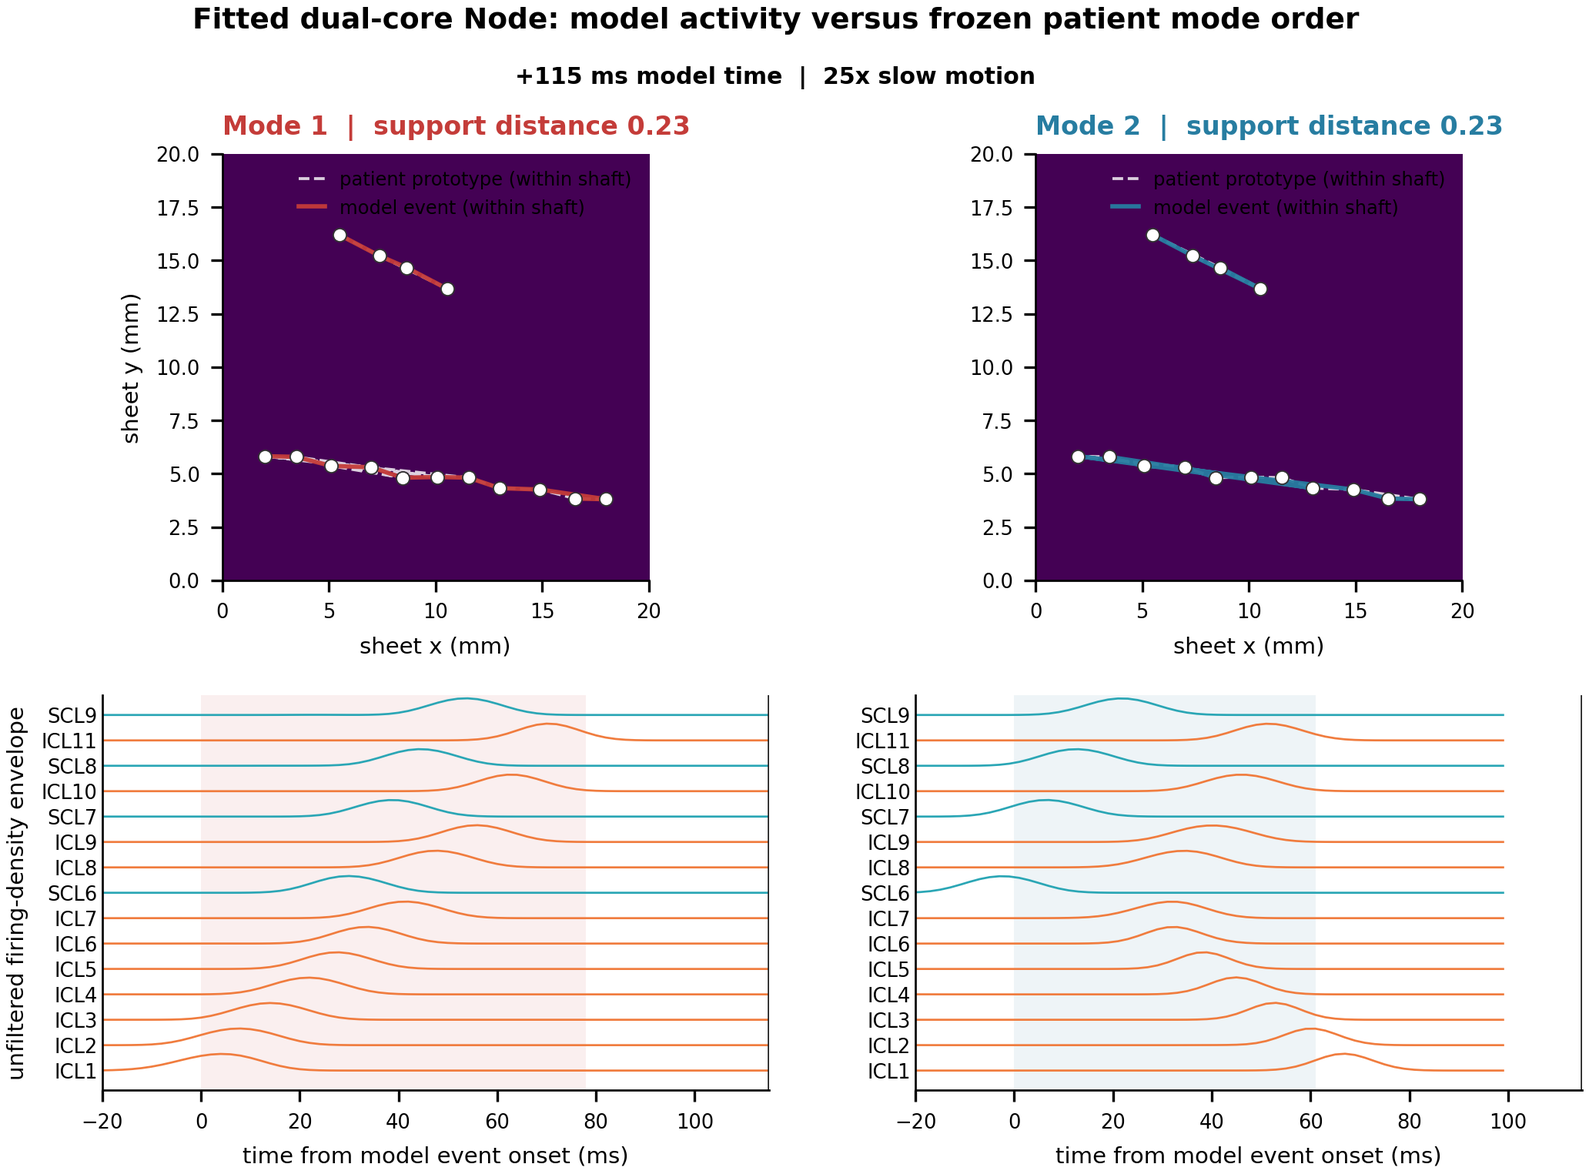
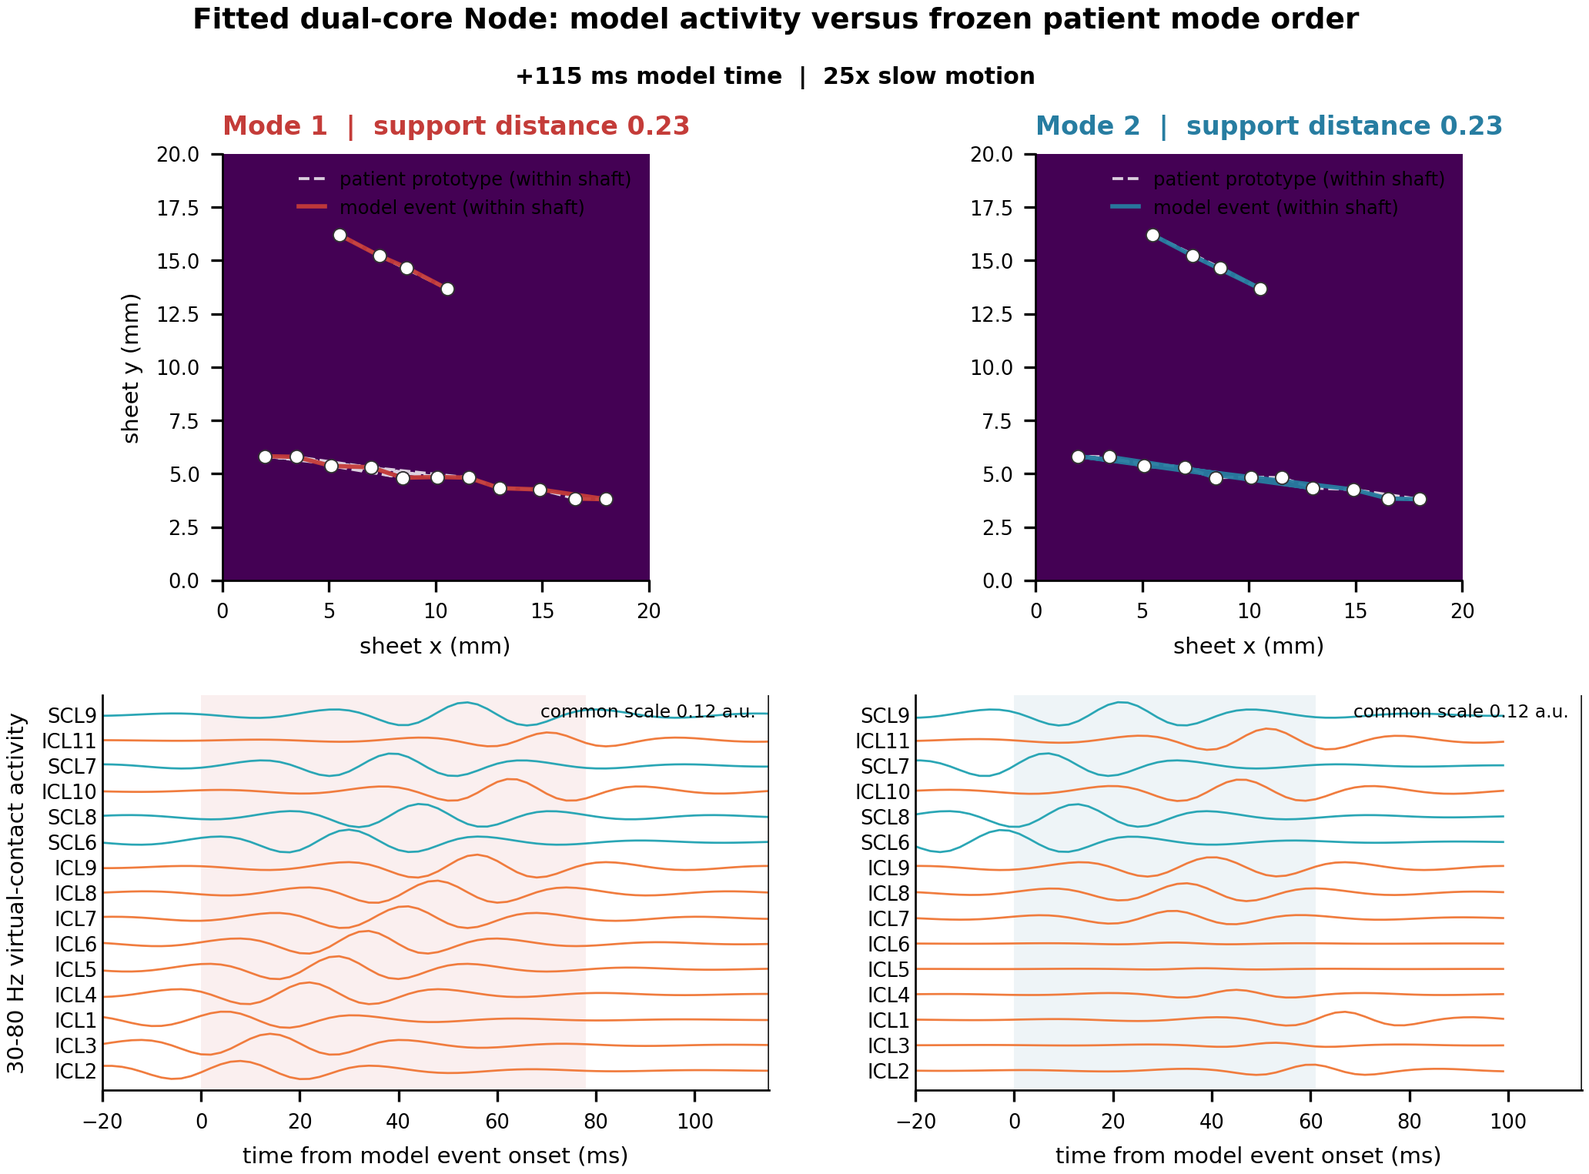
topic4: align dual-core readout with fig4

Changed region(s): [[0.0, 0.5856, 0.4961, 0.9246], [0.5581, 0.5856, 0.9612, 0.9246], [0.6512, 0.863, 0.6822, 0.8938]]

diff --git a/scripts/plot_topic4_dual_core_ood_gif.py b/scripts/plot_topic4_dual_core_ood_gif.py
@@ -13,6 +13,7 @@ matplotlib.use("Agg")
 import matplotlib.pyplot as plt
 from matplotlib.animation import FuncAnimation, PillowWriter
 import numpy as np
+from scipy.signal import butter, sosfiltfilt
 
 
 ROOT = Path(__file__).resolve().parents[1]
@@ -25,6 +26,7 @@ from src.topic4_d6_natural_kmeans import normalize_event_ranks  # noqa: E402
 DEFAULT_CONFIG = ROOT / "config/topic4_dual_core_ood_node_pathways.json"
 MODE_COLORS = ("#c43c39", "#277da1")
 SHAFT_COLORS = {"ICL": "#f07c3e", "SCL": "#2aa6b5"}
+TRACE_BAND_HZ = (30.0, 80.0)
 
 
 def select_representative_pair(
@@ -69,7 +71,9 @@ def select_representative_pair(
     }
 
 
-def _patient_profiles(target_path: Path) -> tuple[np.ndarray, np.ndarray, np.ndarray]:
+def _patient_profiles(
+    target_path: Path,
+) -> tuple[np.ndarray, np.ndarray, np.ndarray, np.ndarray]:
     with np.load(target_path, allow_pickle=False) as loaded:
         names = np.asarray(loaded["contact_names"]).astype(str)
         ranks = np.asarray(loaded["patient_train_ranks"], float)
@@ -78,7 +82,32 @@ def _patient_profiles(target_path: Path) -> tuple[np.ndarray, np.ndarray, np.nda
     profiles = np.asarray([
         np.nanmean(normalized[labels == mode], axis=0) for mode in (0, 1)
     ])
-    return names, profiles, np.bincount(labels, minlength=2)
+    valid = np.isfinite(ranks)
+    counts = valid.sum(axis=0)
+    mean_rank = np.full(ranks.shape[1], np.nan, dtype=float)
+    for index in range(ranks.shape[1]):
+        if counts[index]:
+            mean_rank[index] = float(np.mean(ranks[valid[:, index], index]))
+    fill = (
+        float(np.nanmax(mean_rank)) + 1.0 if np.any(np.isfinite(mean_rank)) else 1.0
+    )
+    keys = np.where(np.isfinite(mean_rank), mean_rank, fill)
+    contact_order = np.lexsort((np.arange(len(names)), -counts, keys))
+    return names, profiles, np.bincount(labels, minlength=2), contact_order
+
+
+def _bandpass_contact_activity(
+    envelope: np.ndarray, dt_ms: float, band_hz=TRACE_BAND_HZ,
+) -> np.ndarray:
+    """Match the accepted Fig.4 virtual-contact display filter exactly."""
+    values = np.asarray(envelope, dtype=float)
+    fs_hz = 1000.0 / float(dt_ms)
+    if values.ndim != 2 or values.shape[1] < 20:
+        raise ValueError("contact envelope must be contact x time with >=20 samples")
+    if not (0.0 < band_hz[0] < band_hz[1] < 0.5 * fs_hz):
+        raise ValueError("readout band must lie below the envelope Nyquist frequency")
+    sos = butter(4, band_hz, btype="bandpass", fs=fs_hz, output="sos")
+    return sosfiltfilt(sos, values, axis=1)
 
 
 def _event_grid(loaded, event_index: int) -> tuple[np.ndarray, np.ndarray]:
@@ -164,7 +193,9 @@ def render(config_path: Path, output_dir: Path, *, fps: float = 8.0) -> dict:
     npz_path = ROOT / selected["worker_npz"]
     worker = json.loads(json_path.read_text())
     target_path = ROOT / config["inputs"]["shaft_aware_target_npz"]["path"]
-    patient_names, patient_profiles, patient_counts = _patient_profiles(target_path)
+    patient_names, patient_profiles, patient_counts, trace_order = _patient_profiles(
+        target_path
+    )
     with np.load(npz_path, allow_pickle=False) as loaded:
         contact_names = np.asarray(loaded["contact_names"]).astype(str)
         if not np.array_equal(contact_names, patient_names):
@@ -174,6 +205,7 @@ def render(config_path: Path, output_dir: Path, *, fps: float = 8.0) -> dict:
         onsets = np.asarray(loaded["onsets"], float)
         envelope = np.asarray(loaded["contact_envelope"], float)
         envelope_dt = float(loaded["contact_envelope_dt_ms"])
+        filtered_envelope = _bandpass_contact_activity(envelope, envelope_dt)
         event_payload = []
         for mode in (0, 1):
             event = selected["events"][str(mode)]
@@ -183,7 +215,7 @@ def render(config_path: Path, output_dir: Path, *, fps: float = 8.0) -> dict:
             onset_ms = float(timing["t_on_ms"])
             stop_ms = float(timing["t_off_ms"])
             trace_time, trace = _window_envelope(
-                envelope, envelope_dt, onset_ms - 20.0, stop_ms + 40.0,
+                filtered_envelope, envelope_dt, onset_ms - 20.0, stop_ms + 40.0,
             )
             event_payload.append({
                 "mode": mode, "event_index": event_index,
@@ -203,6 +235,9 @@ def render(config_path: Path, output_dir: Path, *, fps: float = 8.0) -> dict:
     ])
     vmax = float(np.quantile(positive, 0.995)) if len(positive) else 1.0
     vmax = max(vmax, 1.0)
+    trace_scale = max(float(np.quantile(np.abs(np.concatenate([
+        row["trace"][:, trace_order].ravel() for row in event_payload
+    ])), 0.99)), 1e-9)
     _style()
     fig = plt.figure(figsize=(7.2, 5.1))
     layout = fig.add_gridspec(2, 2, height_ratios=(1.08, 1.0), hspace=0.28, wspace=0.22)
@@ -247,14 +282,12 @@ def render(config_path: Path, output_dir: Path, *, fps: float = 8.0) -> dict:
             loc="upper right", frameon=False, fontsize=5.8, handlelength=1.4,
         )
         local = np.asarray(row["trace"], float)
-        scale = np.nanpercentile(np.abs(local), 99, axis=0)
-        scale[~np.isfinite(scale) | (scale <= 1e-12)] = 1.0
-        normalized = local / scale[None, :]
+        normalized = local * 0.72 / trace_scale
         offsets = np.arange(len(contact_names))[::-1] * 1.55
-        for index, name in enumerate(contact_names):
+        for row_index, contact in enumerate(trace_order):
             trace_axis.plot(
-                row["trace_time_ms"], normalized[:, index] + offsets[index],
-                color=SHAFT_COLORS.get(shaft_ids[index], "#555555"), lw=0.65,
+                row["trace_time_ms"], normalized[:, contact] + offsets[row_index],
+                color=SHAFT_COLORS.get(shaft_ids[contact], "#555555"), lw=0.65,
             )
         trace_axis.axvspan(
             0.0, row["duration_ms"], color=MODE_COLORS[mode], alpha=0.08, lw=0,
@@ -262,12 +295,14 @@ def render(config_path: Path, output_dir: Path, *, fps: float = 8.0) -> dict:
         cursor = trace_axis.axvline(relative_time[0], color="#202020", lw=0.85)
         cursors.append(cursor)
         trace_axis.set_yticks(offsets)
-        trace_axis.set_yticklabels(contact_names)
+        trace_axis.set_yticklabels(contact_names[trace_order])
         trace_axis.set_xlim(relative_time[0], relative_time[-1])
         trace_axis.set_ylim(-1.2, offsets[0] + 1.2)
         trace_axis.set_xlabel("time from model event onset (ms)")
-        trace_axis.set_ylabel(
-            "unfiltered firing-density envelope" if mode == 0 else ""
+        trace_axis.set_ylabel("30-80 Hz virtual-contact activity" if mode == 0 else "")
+        trace_axis.text(
+            0.98, 0.98, f"common scale {trace_scale:.2g} a.u.",
+            transform=trace_axis.transAxes, ha="right", va="top", fontsize=5.6,
         )
         trace_axis.tick_params(axis="y", length=0, pad=1.5)
     time_label = fig.text(
@@ -328,10 +363,17 @@ def render(config_path: Path, output_dir: Path, *, fps: float = 8.0) -> dict:
         "gif_fps": float(fps),
         "playback_slowdown": playback_slowdown,
         "trace_readout": (
-            "unfiltered virtual-contact firing-density envelope; 2 ms sampling; "
-            "5 ms Gaussian smoothing; normalized per contact for display"
+            "30-80 Hz fourth-order Butterworth zero-phase bandpass of the virtual-"
+            "contact firing-density envelope; upstream 2 ms bins and 5 ms Gaussian "
+            "smoothing; one common q99 scale across both event windows and all contacts"
         ),
-        "carrier_frequency_not_encoded_by_playback": True,
+        "same_signal_processing_as_accepted_fig4": True,
+        "same_continuous_window_as_accepted_fig4": False,
+        "event_windows_are_onset_aligned": True,
+        "trace_band_hz": list(TRACE_BAND_HZ),
+        "trace_common_scale_au": trace_scale,
+        "trace_contact_order": contact_names[trace_order].tolist(),
+        "filtered_trace_does_not_establish_native_carrier": True,
         "patient_reference": "mean normalized rank profile from frozen patient training modes",
         "not_clinical_seeg": True,
         "aggregate": str(aggregate_path.relative_to(ROOT)),
@@ -354,8 +396,9 @@ def render(config_path: Path, output_dir: Path, *, fps: float = 8.0) -> dict:
         "严格双 core Node 候选在同一 confirmation 网络中的两类代表事件。上排是 "
         "5 ms 兴奋神经元活动场；实线和白色虚线分别在每根杆内连接模型事件与患者冻结原型的"
         "触点招募顺序，避免把跨杆跳转误画成空间传播边；"
-        "下排为未滤波 firing-density envelope。动画按 8 fps 播放 5 ms 模型帧，即 25 倍慢放；"
-        "播放速度不表示模型载波频率。该图只用于检查 Fig.2C 双向传播形态，不能替代 OOD 或频谱统计。\n\n"
+        "下排复用 Fig.4 的 30–80 Hz virtual-contact 处理链和共同幅度尺度，但这里是两个事件的"
+        "onset-aligned 窗口，不是包含两事件的一段连续轨迹。动画按 8 fps 播放 5 ms 模型帧，即 25 倍慢放；"
+        "带通后的振荡外观不能证明模型具有原生 60 Hz 载波。该图只用于检查 Fig.2C 双向传播形态，不能替代 OOD 或原始频谱统计。\n\n"
         "**关注点**：两类事件是否都跨杆招募、传播方向是否与患者原型一致，以及是否存在局部点亮但"
         "未形成完整传播的情况。\n"
     )

diff --git a/scripts/audit_topic4_dual_core_temporal_carrier.py b/scripts/audit_topic4_dual_core_temporal_carrier.py
@@ -1,5 +1,5 @@
 #!/usr/bin/env python3
-"""Audit absolute propagation timing and unfiltered carrier content without SNN reruns."""
+"""Audit timing and the stored smoothed observation spectrum without SNN reruns."""
 from __future__ import annotations
 
 import argparse
@@ -149,21 +149,32 @@ def main() -> None:
             for arm, candidate_id in ARMS.items()
         },
         "spectral_contract": {
-            "readout": "unfiltered virtual-contact firing-density envelope",
+            "readout": (
+                "virtual-contact firing-density envelope without an additional bandpass, "
+                "but after 2 ms binning and 5 ms Gaussian temporal smoothing"
+            ),
             "not_lfp_or_seeg": True,
+            "raw_spike_or_synaptic_current_carrier_evaluable": False,
             "sampling_ms": 2.0,
             "smoothing_ms": 5.0,
+            "spatial_gaussian_footprint_sigma_mm": 0.25,
             "window_ms": 256.0,
             "window_alignment": "64 ms before to 192 ms after detector onset",
             "frequency_resolution_hz": 3.90625,
+            "theoretical_gaussian_amplitude_retention": {
+                "23.4375_hz": 0.7625579441684482,
+                "60_hz": 0.16922454248244995,
+                "80_hz": 0.04249905628536254
+            },
             "interpretation": (
-                "diagnostic of the stored observation envelope; a plotted 30-80 Hz "
-                "bandpass cannot establish an intrinsic HFO carrier"
+                "diagnostic of the stored smoothed observation envelope only; the 5 ms "
+                "Gaussian strongly attenuates 60-80 Hz, so this artifact cannot establish "
+                "or exclude an intrinsic spike-rate or synaptic-current carrier"
             ),
         },
         "claim_boundary": (
-            "absolute recruitment timing and unfiltered model-envelope spectrum only; "
-            "no clinical waveform or HFO reproduction claim"
+            "absolute recruitment timing and smoothed model-envelope spectrum only; "
+            "raw model carrier, clinical waveform and HFO reproduction remain untested"
         ),
     }
     output.parent.mkdir(parents=True, exist_ok=True)

diff --git a/tests/test_plot_topic4_dual_core_ood_gif.py b/tests/test_plot_topic4_dual_core_ood_gif.py
@@ -3,6 +3,7 @@ import pytest
 import numpy as np
 
 from scripts.plot_topic4_dual_core_ood_gif import (
+    _bandpass_contact_activity,
     _upsert_readme_entry,
     ordered_shaft_segments,
     select_representative_pair,
@@ -64,3 +65,15 @@ def test_readme_entry_is_replaced_without_dropping_other_entries():
     existing = "### target\nold\n\n### retained\nkeep\n"
     updated = _upsert_readme_entry(existing, "### target", "### target\nnew\n")
     assert updated == "### target\nnew\n### retained\nkeep\n"
+
+
+def test_bandpass_matches_accepted_fig4_filter():
+    from scripts.paper_figures.plot_fig4_spatial_edge_flow_validation import (
+        _bandpass_contact_activity as accepted_filter,
+    )
+
+    rng = np.random.default_rng(3)
+    envelope = rng.normal(size=(15, 600))
+    observed = _bandpass_contact_activity(envelope, 2.0)
+    expected = accepted_filter(envelope, 2.0)
+    assert np.array_equal(observed, expected)

diff --git a/docs/superpowers/specs/2026-08-31-topic4-dual-core-pathway-carrier-refit-design.md b/docs/superpowers/specs/2026-08-31-topic4-dual-core-pathway-carrier-refit-design.md
@@ -4,7 +4,7 @@
 
 Rev16 found a simple two-core Node field that produced both frozen patient propagation modes in 12/12 new networks, but 46% of returned events remained outside patient support. The pathway experiment then transferred EE and E-to-I coefficient rows learned on an older continuous field. It did not optimize either row on the new dual-core field. The transferred EE row reduced OOD mainly by suppressing event yield, the transferred E-to-I row shifted occupancy toward the patient's larger mode without reducing OOD, and their combination was antagonistic rather than additive.
 
-The representative GIF also exposed a separate issue. Its apparent slow motion is a rendering effect: 5 ms simulation frames are shown at 8 fps. Absolute contact recruitment spans overlap the patient distribution. However, the unfiltered stored firing-density envelope is dominated by about 23 Hz rather than an intrinsic 50--70 Hz carrier, while the current OOD embedding normalizes each event to 0--1 and cannot see either absolute duration or carrier frequency.
+The representative GIF also exposed a separate issue. Its apparent slow motion is a rendering effect: 5 ms simulation frames are shown at 8 fps. Absolute contact recruitment spans overlap the patient distribution. The stored firing-density envelope is dominated by about 23 Hz, but it has already undergone 5 ms Gaussian smoothing, which retains only about 17% of a 60 Hz amplitude. Raw spike-rate and synaptic-current carrier content therefore remain unaudited. The current OOD embedding also normalizes each event to 0--1 and cannot see either absolute duration or carrier frequency.
 
 Rev17 therefore keeps the Node substrate fixed and separates three questions:
 
@@ -65,8 +65,8 @@ The best four candidates then run on three new 12 s selection seeds. One work po
 
 Carrier calibration starts only after the pathway work point is frozen.
 
-1. Verify the unfiltered readout on a synthetic 62.5 Hz signal and on an archived SNN trajectory previously claimed to show a fast carrier. Failure means the readout must be repaired before simulation.
-2. Record both 1 ms population E/I rates and the unfiltered 2 ms virtual-contact firing-density envelope. A 30--80 Hz filtered trace remains a visualization, not the primary carrier endpoint.
+1. Verify the raw-rate readout on a synthetic 62.5 Hz signal and on an archived SNN trajectory previously claimed to show a fast carrier. Failure means the readout must be repaired before simulation.
+2. Record 1 ms population E/I rates and a current-based readout before the existing 5 ms observation smoothing. Also retain the 2 ms/5 ms virtual-contact firing-density envelope for exact Fig.4 display parity. A 30--80 Hz filtered trace remains a visualization, not the primary carrier endpoint.
 3. If the frozen work point remains low-frequency, scan only:
 
 ```text
@@ -82,8 +82,8 @@ This is a model gamma-like carrier calibration, not a claim that the firing-dens
 ## Visual contract
 
 - GIF time labels state model milliseconds and playback slowdown.
-- The lower panel names the unfiltered firing-density envelope explicitly.
-- A filtered 30--80 Hz trace, if shown, is labeled as filtered.
+- The formal lower panel uses the accepted Fig.4 fourth-order 30--80 Hz zero-phase filter and common amplitude scale, and is labeled as filtered firing-density activity.
+- The GIF metadata states that its two onset-aligned event windows are not the same as Fig.4's single continuous two-event window.
 - Mode examples remain algorithmically selected, and all-event OOD/KMeans statistics remain adjacent to the GIF.
 
 ## Claim boundary

diff --git a/docs/archive/topic4/sef_hfo/dual_core_ood_node_pathway_factorization_2026-08-31.md b/docs/archive/topic4/sef_hfo/dual_core_ood_node_pathway_factorization_2026-08-31.md
@@ -2,7 +2,7 @@
 
 **日期**：2026-08-31
 
-**状态**：`DUAL_CORE_NODE_REPERTOIRE_PARTIAL_SUPPORT / FULL_DISTRIBUTION_NOT_RECOVERED / EE_OOD_FILTER_WITH_YIELD_COST / ETOI_MODE_OCCUPANCY_MODULATOR / TRANSFERRED_PATHWAYS_NONADDITIVE / NATIVE_CARRIER_NOT_RECOVERED`
+**状态**：`DUAL_CORE_NODE_REPERTOIRE_PARTIAL_SUPPORT / FULL_DISTRIBUTION_NOT_RECOVERED / EE_OOD_FILTER_WITH_YIELD_COST / ETOI_MODE_OCCUPANCY_MODULATOR / TRANSFERRED_PATHWAYS_NONADDITIVE / RAW_CARRIER_NOT_AUDITED`
 
 **范围**：development-only；不作 patient-blind、解剖 core、临床波形、发作或患者因果机制主张。
 
@@ -116,7 +116,7 @@ E->I 主要把模式占用推向 Mode 2，并略微增加事件产率；
 
 零仿真重读现有轨迹显示，患者两模式的触点招募跨度中位数为 42.6 和 48.0 ms，5--95% 区间分别为 17.8--111.1 和 20.2--104.3 ms。四臂的 equal-network 中位跨度为 Node 36、EE 47.5、E->I 32、联合 41 ms。因此当前 GIF 看起来缓慢主要来自 5 ms 模型帧以 8 fps 播放，即 25 倍慢放；绝对传播跨度并未明显慢于患者。
 
-真正未恢复的是原生快载波。未滤波 virtual-contact firing-density envelope 在四臂中的事件窗主峰都为最低可分辨的 23.4 Hz；30--80/5--30 Hz 功率比从 Node 的 0.124 下降到联合臂的 0.091。现有 OOD 特征又会把每个事件独立归一化到 0--1 时间，所以它对绝对时长和载波完全不敏感。30--80 Hz bandpass 图只能显示被筛出的分量，不能证明模型本身产生了 60 Hz 节律。
+原始快载波目前不能裁定。存档中的 virtual-contact firing-density envelope 已经经过 2 ms 分箱、标准差 5 ms 的高斯时间平滑和 0.25 mm 空间采样；四臂在这个**平滑后、未额外带通**的观察量上主峰均为最低可分辨的 23.4 Hz。5 ms 高斯在 60 Hz 理论上只保留约 17% 振幅和 3% 功率，因此这个结果不能用于排除原始 spike-rate 或突触电流中的 60 Hz。现有 OOD 特征又把每个事件独立归一化到 0--1 时间，所以它同样看不到绝对时长和载波。Fig.4 的 30--80 Hz 波形是在这份平滑包络上再带通得到，只是统一的显示语法，不能证明模型本身产生了原生 60 Hz 节律。
 
 可复现产物：`results/topic4_sef_hfo/data_driven_dual_core_ood/temporal_carrier_audit.json`。
 
@@ -144,7 +144,7 @@ FULL_PATIENT_EVENT_DISTRIBUTION_NOT_RECOVERED
 1. 保持两个 Node core 冻结，先审计两种模式是否由不同 core 优先起核；不要把模式标签直接当 core 标签。
 2. 在该双 core 上重新拟合 EE/E->I 的表达剂量，而不是再次迁移旧连续场系数；目标同时保护 OOD、患者 31/69 模式比例、KMeans 和事件产率。
 3. 将绝对招募跨度加入正式端点；原有 0--1 onset 特征继续负责顺序，不再单独代表时间尺度。
-4. 单独验证和校准快载波。若当前 readout 能通过已知 60 Hz 正控但模型仍停在约 23 Hz，再开放最小的 AMPA/GABA 快时间常数网格；禁止靠 bandpass 图制造“60 Hz 复现”。
+4. 单独验证和校准快载波。必须保存未做 5 ms 平滑的 1 ms population E/I rate 或突触电流；只有这个原始读出仍缺少快载波时，才开放最小的 AMPA/GABA 快时间常数网格。禁止用平滑后再 bandpass 的图制造“60 Hz 复现”。
 5. 每个候选继续用新网络确认，并保留 Fig.2C-style 全神经元 GIF；禁止只展示最像的事件而不报告总体 OOD。
 
 ## 7. 产物与复现

diff --git a/results/topic4_sef_hfo/data_driven_dual_core_ood/confirmation/figures/README.md b/results/topic4_sef_hfo/data_driven_dual_core_ood/confirmation/figures/README.md
@@ -1,8 +1,7 @@
 ### dual_core_node_fig2c_mode_check.gif
-严格双 core Node 候选在同一 confirmation 网络中的两类代表事件。上排是 5 ms 兴奋神经元活动场；实线和白色虚线分别在每根杆内连接模型事件与患者冻结原型的触点招募顺序，避免把跨杆跳转误画成空间传播边；下排为未滤波 firing-density envelope。动画按 8 fps 播放 5 ms 模型帧，即 25 倍慢放；播放速度不表示模型载波频率。该图只用于检查 Fig.2C 双向传播形态，不能替代 OOD 或频谱统计。
+严格双 core Node 候选在同一 confirmation 网络中的两类代表事件。上排是 5 ms 兴奋神经元活动场；实线和白色虚线分别在每根杆内连接模型事件与患者冻结原型的触点招募顺序，避免把跨杆跳转误画成空间传播边；下排复用 Fig.4 的 30–80 Hz virtual-contact 处理链和共同幅度尺度，但这里是两个事件的onset-aligned 窗口，不是包含两事件的一段连续轨迹。动画按 8 fps 播放 5 ms 模型帧，即 25 倍慢放；带通后的振荡外观不能证明模型具有原生 60 Hz 载波。该图只用于检查 Fig.2C 双向传播形态，不能替代 OOD 或原始频谱统计。
 
 **关注点**：两类事件是否都跨杆招募、传播方向是否与患者原型一致，以及是否存在局部点亮但未形成完整传播的情况。
-
 ### dual_core_node_ood_kmeans_confirmation.png
 严格双 core Node 候选在 12 张独立网络上的静态验收。图中同时给出实际 core 位置、patient-support 内 formal-clean events 的 pooled natural KMeans、患者/模型 rank profile 和以网络为单位的 OOD 分布；两个 core 使用同一中性色，不代表两种模式。
 
